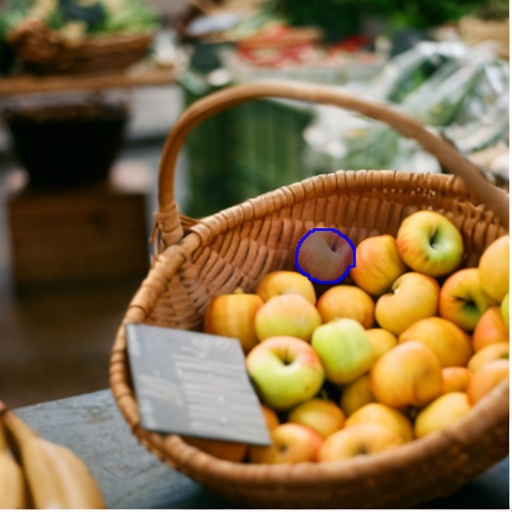
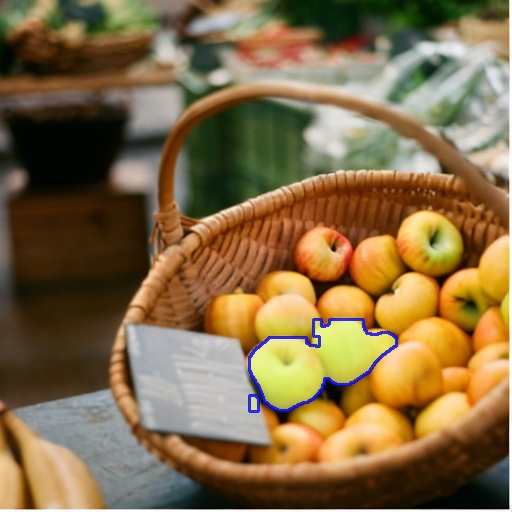
add point_coord_sets and print labels_set

Changed region(s): [[0.4688, 0.5938, 0.7812, 0.8125], [0.5625, 0.4375, 0.7188, 0.5625]]

diff --git a/remove_anything.py b/remove_anything.py
@@ -5,11 +5,9 @@ import numpy as np
 from pathlib import Path
 from matplotlib import pyplot as plt
 
-from ultralytics import FastSAM, SAM
-from ultralytics.models.fastsam import FastSAMPrompt
 # from lama_inpaint import inpaint_img_with_lama
 from utils import get_clicked_point, get_box_point, get_brush_point
-
+from utils import sam_segment_object
 
 def setup_args(parser):
     parser.add_argument(
@@ -39,8 +37,8 @@ def setup_args(parser):
     )
     parser.add_argument(
         "--sam_model_type", type=str,
-        default="FastSAM-s", choices=['FastSAM-s', 'FastSAM-x', 'mobile_sam'],
-        help="The type of sam model to load. Default: 'FastSAM-s"
+        default="mobile_sam", choices=['FastSAM-s', 'FastSAM-x', 'mobile_sam'],
+        help="The type of sam model to load. Default: 'mobile_sam"
     )
     parser.add_argument(
         "--sam_ckpt", type=str, required=True,
@@ -62,10 +60,9 @@ if __name__ == "__main__":
     parser = argparse.ArgumentParser()
     setup_args(parser)
     args = parser.parse_args(sys.argv[1:])
-    DEVICE = "cuda" if torch.cuda.is_available() else "cpu"
     
     if args.coords_type == "click":
-        latest_coords = get_clicked_point(args.input_img)
+        point_coord_sets, point_label_sets = get_clicked_point(args.input_img)
     elif args.coords_type == "box":
         # TODO
         latest_coords = get_box_point(args.input_img)
@@ -74,23 +71,6 @@ if __name__ == "__main__":
         latest_coords = get_brush_point(args.input_img)
     elif args.coords_type == "key_in":
         # 作为API提供给前端服务
-        latest_coords = args.point_coords
+        point_coord_sets, point_label_sets = args.point_coords, args.point_labels
 
-    latest_labels = args.point_labels
-    
-    # 选择MODEL segment anything
-    if args.sam_ckpt != "./weights/mobile_sam.pt":
-        model = FastSAM(args.sam_ckpt)
-        # retina_masks 要求masks是高分辨率的，为了准确性
-        results = model(args.input_img,device=DEVICE,retina_masks=True,imgsz=1024,conf=0.4,iou=0.9)
-        prompt_process = FastSAMPrompt(args.input_img, results, device=DEVICE)
-        # Point prompt
-        # points default [[0,0]] [[x1,y1],[x2,y2]]
-        # point_label default [0] [1,0] 0:background, 1:foreground
-        ann = prompt_process.point_prompt(points=[latest_coords], pointlabel=latest_labels)
-        prompt_process.plot(annotations=ann, output=args.output_dir)
-        
-        # plt.show()
-        
-    else:
-        model = SAM(args.sam_ckpt)
+    sam_segment_object(args.input_img, args.output_dir, args.sam_ckpt, point_coord_sets, point_label_sets)

diff --git a/utils/utils.py b/utils/utils.py
@@ -8,18 +8,25 @@ def get_clicked_point(img_path):
     cv2.imshow("image", img)
 
     last_point = []
+    point_coord_sets = []
+    point_labels_sets = []
     keep_looping = True
 
     def mouse_callback(event, x, y, flags, param):
         nonlocal last_point, keep_looping, img
         if event == cv2.EVENT_LBUTTONDOWN:
-            if last_point:
-                cv2.circle(img, tuple(last_point), 5, (0, 0, 0), -1)
             last_point = [x, y]
+            point_coord_sets.append(last_point)
+            point_labels_sets.append(1)
             cv2.circle(img, tuple(last_point), 5, (0, 0, 255), -1)
-            cv2.imshow("image", img)
         elif event == cv2.EVENT_RBUTTONDOWN:
+            last_point = [x, y]
+            point_coord_sets.append(last_point)
+            point_labels_sets.append(0)
+            cv2.circle(img, tuple(last_point), 5, (0, 0, 0), -1)
+        elif event == cv2.EVENT_MBUTTONDOWN:
             keep_looping = False
+        cv2.imshow("image", img)
 
     cv2.setMouseCallback("image", mouse_callback)
     while keep_looping:
@@ -27,7 +34,7 @@ def get_clicked_point(img_path):
 
     cv2.destroyAllWindows()
 
-    return last_point
+    return point_coord_sets, point_labels_sets
 
 def get_box_point(img_path):
     # TODO 获取左上角和右下角的坐标位置，确定选定区域

diff --git a/utils/sam_segment.py b/utils/sam_segment.py
@@ -1,0 +1,21 @@
+import torch
+
+from ultralytics import FastSAM, SAM
+from ultralytics.models.fastsam import FastSAMPrompt
+
+def sam_segment_object(image_path, output_dir, sam_ckpt, point_coord_sets, point_label_sets ):
+    DEVICE = "cuda" if torch.cuda.is_available() else "cpu"
+    # 选择MODEL segment anything
+    if sam_ckpt != "./weights/mobile_sam.pt":
+        model = FastSAM(sam_ckpt)
+        # retina_masks 要求masks是高分辨率的，为了准确性
+        results = model(image_path,device=DEVICE,retina_masks=True,imgsz=1024,conf=0.4,iou=0.9)
+        prompt_process = FastSAMPrompt(image_path, results, device=DEVICE)
+        # Point prompt
+        # points default [[0,0]] [[x1,y1],[x2,y2]]
+        # point_label default [0] [1,0] 0:background, 1:foreground
+        ann = prompt_process.point_prompt(points=point_coord_sets, pointlabel=point_label_sets)
+        prompt_process.plot(annotations=ann, output=output_dir)
+        
+    else:
+        model = SAM(sam_ckpt)

diff --git a/utils/__init__.py b/utils/__init__.py
@@ -1,1 +1,2 @@
 from .utils import *
+from .sam_segment import *
